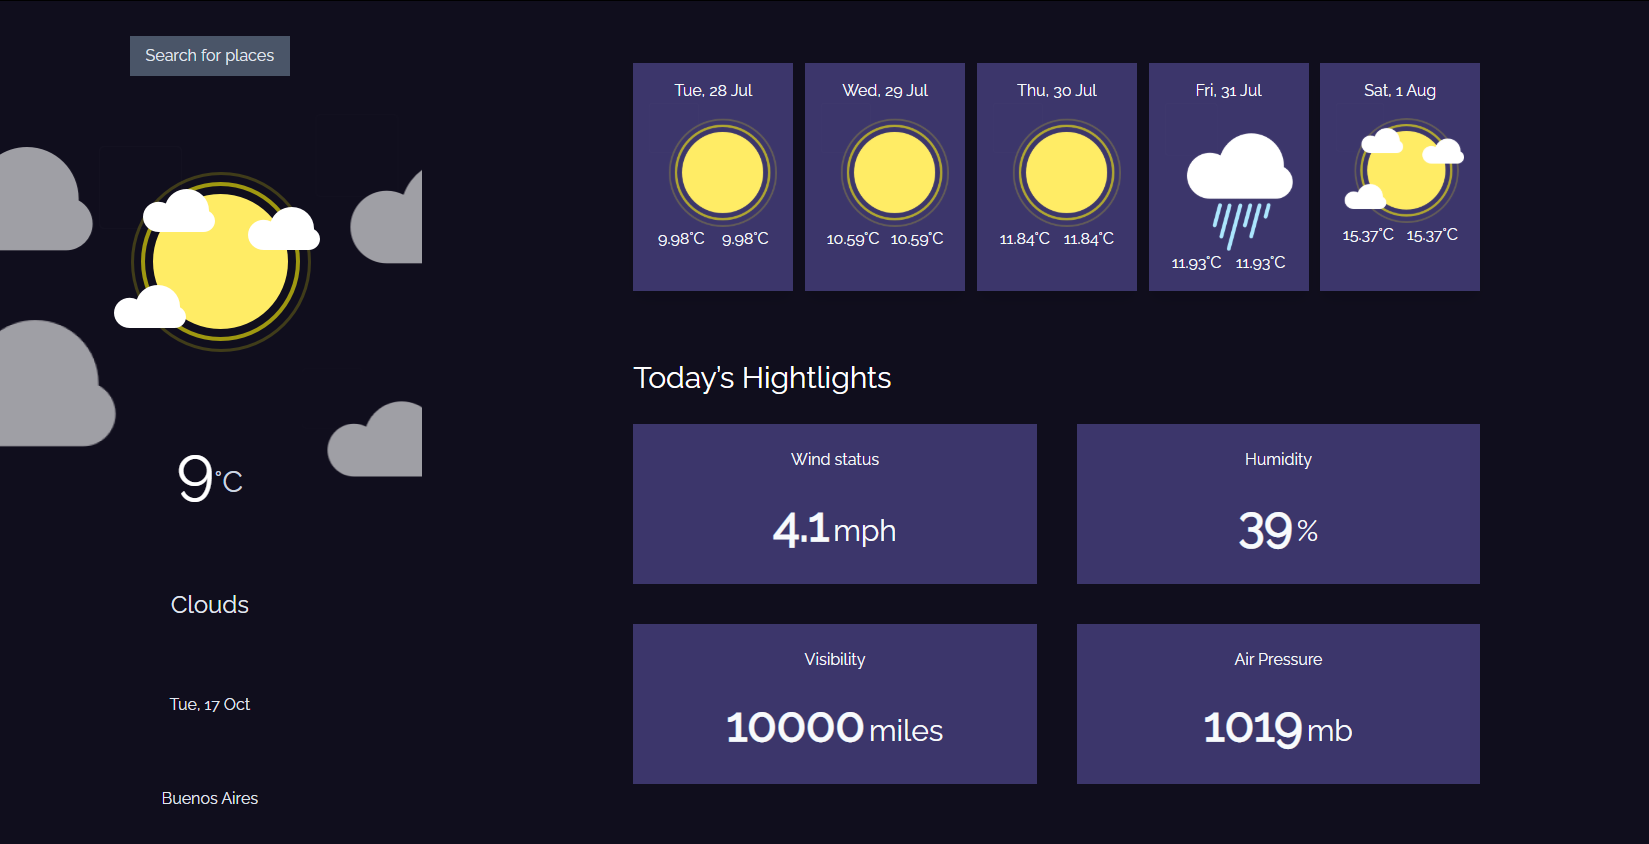
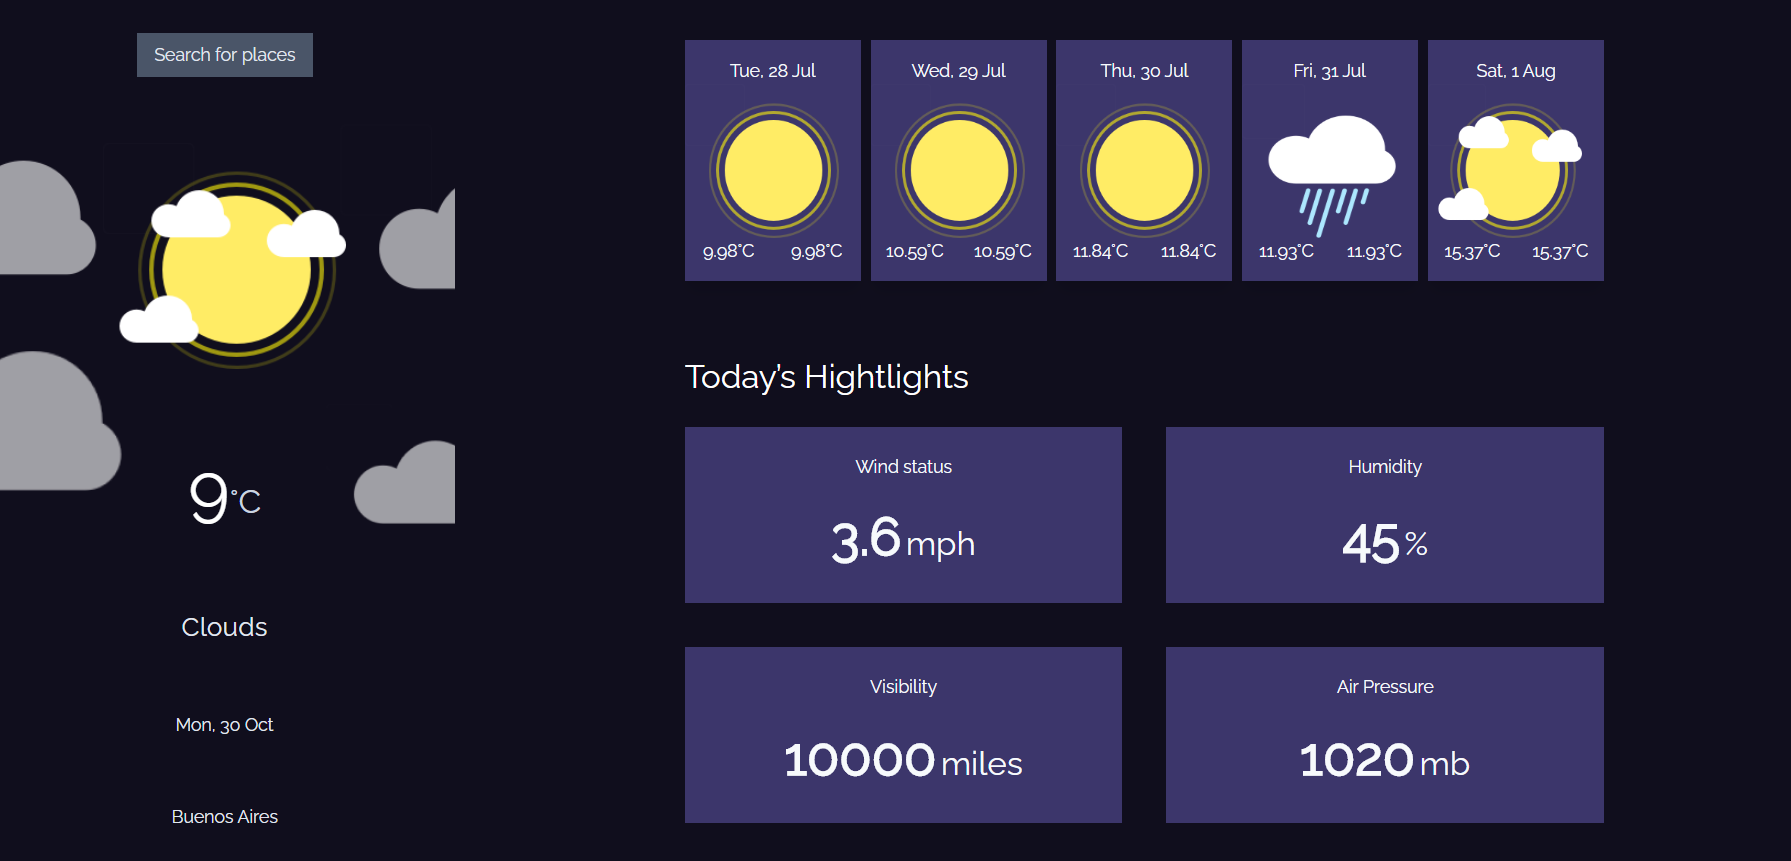
updating styles and capture

diff --git a/src/components/Card.tsx b/src/components/Card.tsx
@@ -17,9 +17,13 @@ const Card: React.FC<WeatherCardProps> = (props: WeatherCardProps) => {
   const image = getWeatherIcon(weather);
 
   return (
-    <div className="w-40 overflow-hidden shadow-lg bg-indigo-900 text-gray-100 text-center p-4">
+    <div className="w-40 overflow-hidden shadow-lg bg-indigo-900 text-gray-100 text-center py-4 flex flex-col justify-around">
       <h2>{date}</h2>
-      <img src={`/public/img/${image}.png`} alt={weather} />
+      <img
+        style={{ height: "140px", width: "140px" }}
+        src={`/public/img/${image}.png`}
+        alt={weather}
+      />
       <div className="flex justify-around">
         <span className="max-temp">{`${maxTemp}°C`}</span>
         <span className="min-temp">{`${minTemp}°C`}</span>

diff --git a/src/components/Forecast.tsx b/src/components/Forecast.tsx
@@ -8,7 +8,7 @@ export interface ForecastProps {
 
 const Forecast: React.FC<ForecastProps> = ({ forecasts }) => {
   return (
-    <div className="flex flex-wrap justify-between max-w-5xl min-w-2/3 w-2/3">
+    <div className="flex flex-wrap justify-between max-w-6xl min-w-2/3 w-2/3">
       {forecasts.map(({ date, condition, maxTemp, minTemp }, idx) => (
         <Card
           key={idx}
